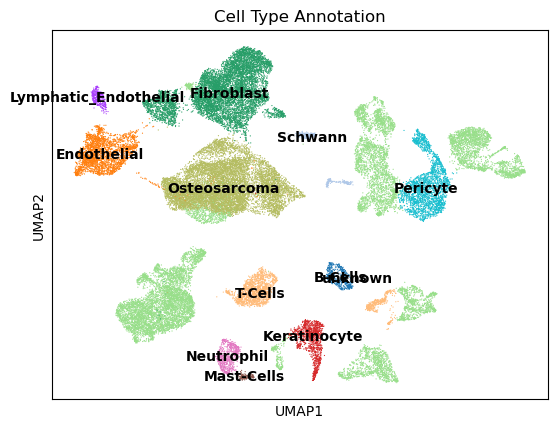
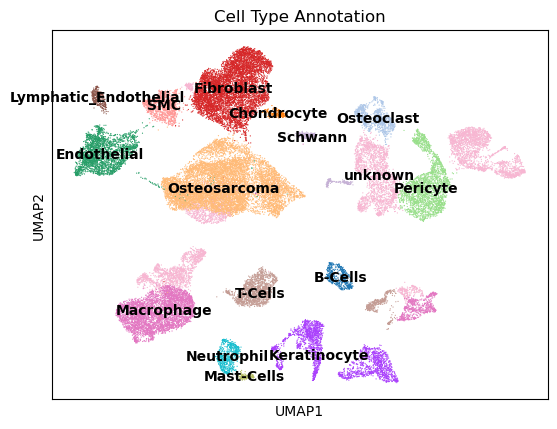
Update preliminary annotations after fixing merge

diff --git a/README.md b/README.md
@@ -182,7 +182,7 @@ marker_genes = {
 
 ### Preliminary Annotations 
 
-![](figures/umap_combined_celltypeON.png?v=5) 
+![](figures/umap_combined_celltypeON.png?v=6) 
 
-![](figures/umap_combined_celltype.png?v=5)
+![](figures/umap_combined_celltype.png?v=6)
 
